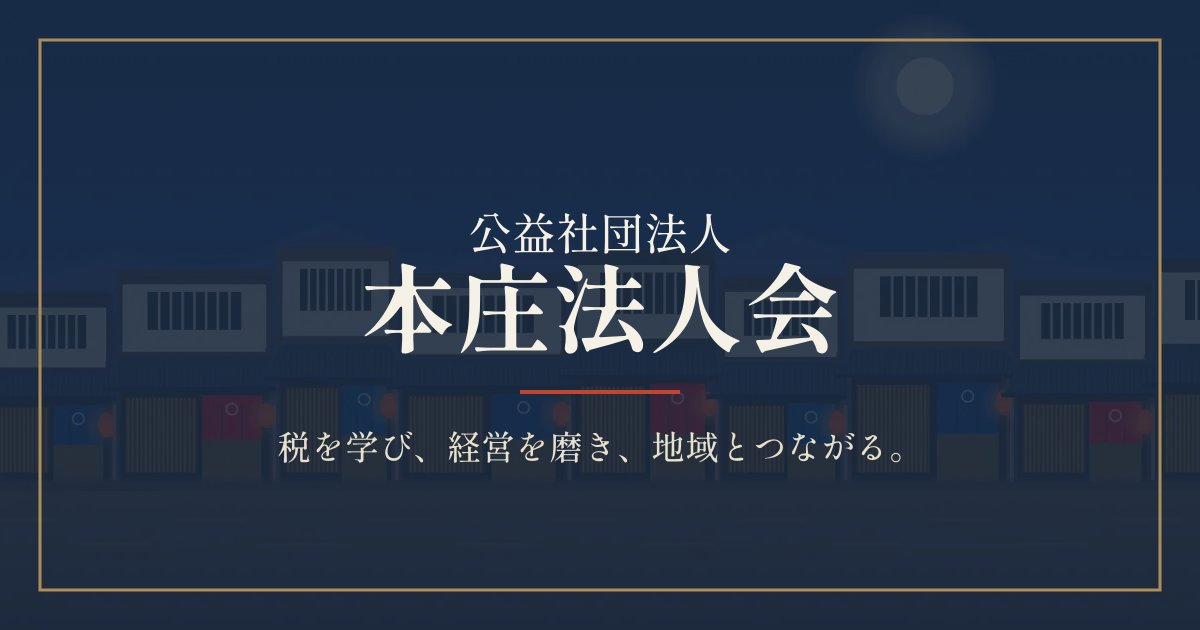
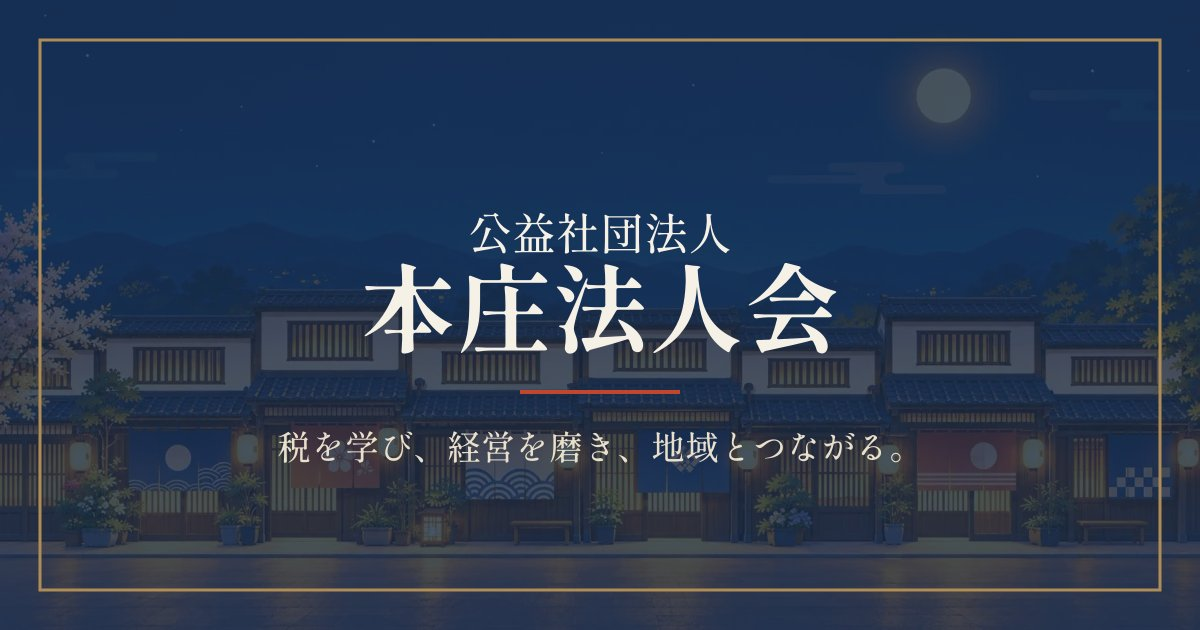
メイン画像を星月夜の町家通りに差し替え、暖簾オープニングを刷新
- 画像の暖簾をモチーフにした4柄（スマホは2柄）が左右に割れて巻き上がる演出に
- 暖簾が上がってからヘッダーを表示、縦看板を月にかからない位置へ
- og.jpg を新しいメイン画像から再生成

diff --git a/components/NorenIntro.tsx b/components/NorenIntro.tsx
@@ -1,0 +1,119 @@
+/**
+ * トップのオープニング：メイン画像の町家に掛かる暖簾をモチーフにした4枚の暖簾。
+ * 1枚ごとに中央の切れ目から左右に割れて揺れ、上へ巻き上がる。
+ * prefers-reduced-motion の人には表示しない（globals.css）。
+ */
+
+const AI = "#1f3352";
+const SHU = "#c2452d";
+const KINARI = "#f6f1e7";
+
+// 青海波（viewBox 300 幅に敷き詰める）
+function Seigaiha({ y, rows, color, bg }: { y: number; rows: number; color: string; bg: string }) {
+  const r = 30;
+  const arcs = [];
+  for (let row = 0; row < rows; row++) {
+    const cy = y + row * (r * 0.5);
+    const off = row % 2 ? r : 0;
+    for (let cx = -r + off; cx <= 300 + r; cx += r * 2) {
+      arcs.push(
+        <g key={`${row}-${cx}`}>
+          <circle cx={cx} cy={cy + r} r={r} fill={bg} stroke={color} strokeWidth="3" />
+          <circle cx={cx} cy={cy + r} r={r * 0.68} fill="none" stroke={color} strokeWidth="3" />
+          <circle cx={cx} cy={cy + r} r={r * 0.36} fill="none" stroke={color} strokeWidth="3" />
+        </g>,
+      );
+    }
+  }
+  return <g>{arcs}</g>;
+}
+
+function Sakura({ cx, cy, r, color }: { cx: number; cy: number; r: number; color: string }) {
+  const petals = [0, 72, 144, 216, 288].map((deg) => (
+    <path
+      key={deg}
+      transform={`rotate(${deg} ${cx} ${cy})`}
+      d={`M${cx} ${cy} C ${cx - r * 0.55} ${cy - r * 0.35}, ${cx - r * 0.5} ${cy - r * 0.95}, ${cx - r * 0.12} ${cy - r} L ${cx} ${cy - r * 0.82} L ${cx + r * 0.12} ${cy - r} C ${cx + r * 0.5} ${cy - r * 0.95}, ${cx + r * 0.55} ${cy - r * 0.35}, ${cx} ${cy} Z`}
+      fill={color}
+    />
+  ));
+  return (
+    <g>
+      {petals}
+      <circle cx={cx} cy={cy} r={r * 0.14} fill={SHU} />
+    </g>
+  );
+}
+
+// 4枚の柄（viewBox 0 0 300 900）
+const designs = [
+  // 藍・白丸・青海波
+  (
+    <>
+      <rect width="300" height="900" fill={AI} />
+      <circle cx="150" cy="300" r="62" fill={KINARI} />
+      <Seigaiha y={600} rows={12} color={KINARI} bg={AI} />
+    </>
+  ),
+  // 朱・桜
+  (
+    <>
+      <rect width="300" height="900" fill={SHU} />
+      <Sakura cx={150} cy={300} r={78} color={KINARI} />
+      <Sakura cx={226} cy={420} r={30} color={KINARI} />
+    </>
+  ),
+  // 生成り・藍の青海波
+  (
+    <>
+      <rect width="300" height="900" fill={KINARI} />
+      <circle cx="150" cy="300" r="58" fill="none" stroke={AI} strokeWidth="10" />
+      <text x="150" y="322" textAnchor="middle" fontSize="64" fontWeight="700" fill={AI} fontFamily="'Shippori Mincho B1', serif">
+        法
+      </text>
+      <Seigaiha y={560} rows={14} color={AI} bg={KINARI} />
+    </>
+  ),
+  // 藍・菱・市松
+  (
+    <>
+      <rect width="300" height="900" fill={AI} />
+      <g transform="translate(150 300) rotate(45)">
+        <rect x="-50" y="-50" width="100" height="100" fill="none" stroke={KINARI} strokeWidth="10" />
+        <rect x="-26" y="-26" width="22" height="22" fill={KINARI} />
+        <rect x="4" y="-26" width="22" height="22" fill={KINARI} />
+        <rect x="-26" y="4" width="22" height="22" fill={KINARI} />
+        <rect x="4" y="4" width="22" height="22" fill={KINARI} />
+      </g>
+      {Array.from({ length: 8 }, (_, row) =>
+        Array.from({ length: 6 }, (_, col) =>
+          (row + col) % 2 ? null : <rect key={`${row}-${col}`} x={col * 50} y={620 + row * 50} width="50" height="50" fill={KINARI} />,
+        ),
+      )}
+    </>
+  ),
+];
+
+function Half({ design, side }: { design: React.ReactNode; side: "l" | "r" }) {
+  return (
+    <span className={`noren-half noren-${side}`}>
+      <svg viewBox={side === "l" ? "0 0 150 900" : "150 0 150 900"} preserveAspectRatio={side === "l" ? "xMaxYMin slice" : "xMinYMin slice"} aria-hidden="true">
+        {design}
+      </svg>
+    </span>
+  );
+}
+
+export default function NorenIntro() {
+  return (
+    <div className="noren-intro" aria-hidden="true">
+      <span className="noren-rod" />
+      {designs.map((d, i) => (
+        <span className="noren" key={i} style={{ "--i": i } as React.CSSProperties}>
+          <Half design={d} side="l" />
+          <Half design={d} side="r" />
+        </span>
+      ))}
+    </div>
+  );
+}

diff --git a/app/globals.css b/app/globals.css
@@ -264,25 +264,34 @@ main { display: block; }
   100% { transform: none; opacity: 1; }
 }
 
-/* 暖簾オープニング */
-.noren-intro { position: absolute; inset: 0; z-index: 5; display: flex; pointer-events: none; }
-.noren-intro span {
-  flex: 1; height: 100%; background: var(--ai); position: relative;
-  border-right: 2px solid var(--ai-deep);
-  animation: noren-up 1.1s cubic-bezier(.7,0,.2,1) both;
+/* 暖簾オープニング（メイン画像の暖簾がモチーフ） */
+.noren-intro { position: absolute; inset: 0; z-index: 5; display: flex; pointer-events: none; overflow: hidden; }
+.noren-rod {
+  position: absolute; left: 0; right: 0; top: 0; height: 14px; z-index: 2;
+  background: linear-gradient(#5a3e26, #2e1f12); box-shadow: 0 3px 8px rgba(0,0,0,.4);
+  animation: rod-up 0.6s ease-in calc(0.55s + 3 * 0.12s + 0.9s) both;
 }
-.noren-intro span::after {
-  content: ""; position: absolute; left: 50%; top: 40%; width: 64px; height: 64px; margin-left: -32px;
-  border: 3px solid rgba(246, 241, 231, 0.9); border-radius: 50%;
+.noren { flex: 1; display: flex; height: 100%; gap: 3px; padding: 0 2px; }
+.noren-half {
+  flex: 1; height: 100%; overflow: hidden; display: block; transform-origin: top center;
+  box-shadow: inset 0 -40px 60px -30px rgba(0,0,0,.35);
 }
-.noren-intro span:nth-child(1) { animation-delay: 0.25s; }
-.noren-intro span:nth-child(2) { animation-delay: 0.35s; }
-.noren-intro span:nth-child(3) { animation-delay: 0.45s; }
-.noren-intro span:nth-child(4) { animation-delay: 0.55s; }
-@keyframes noren-up {
-  0% { transform: translateY(0); }
-  100% { transform: translateY(-105%); }
+.noren-half svg { display: block; width: 100%; height: 100%; }
+.noren-l { animation: noren-l 1.5s cubic-bezier(.55,0,.25,1) calc(0.55s + var(--i) * 0.12s) both; }
+.noren-r { animation: noren-r 1.5s cubic-bezier(.55,0,.25,1) calc(0.55s + var(--i) * 0.12s) both; }
+@keyframes noren-l {
+  0% { transform: none; }
+  28% { transform: rotate(5deg) translateX(-6%); }
+  45% { transform: rotate(3deg) translateX(-8%) translateY(0); }
+  100% { transform: rotate(1deg) translateX(-8%) translateY(-108%); }
 }
+@keyframes noren-r {
+  0% { transform: none; }
+  28% { transform: rotate(-5deg) translateX(6%); }
+  45% { transform: rotate(-3deg) translateX(8%) translateY(0); }
+  100% { transform: rotate(-1deg) translateX(8%) translateY(-108%); }
+}
+@keyframes rod-up { to { transform: translateY(-120%); } }
 .hero-scroll {
   position: absolute; left: 50%; bottom: 24px; transform: translateX(-50%);
   font-size: 11px; letter-spacing: 0.3em; color: rgba(255, 255, 255, 0.75); display: flex; flex-direction: column; align-items: center; gap: 8px;
@@ -297,7 +306,6 @@ main { display: block; }
   .kanban span:nth-child(2) { margin-top: 24px; }
   .hero-inner { padding-bottom: 140px; }
   .hero::before { background: linear-gradient(180deg, rgba(20,34,58,.75) 0%, rgba(20,34,58,.55) 55%, rgba(20,34,58,.8) 100%); }
-  .noren-intro span::after { width: 40px; height: 40px; margin-left: -20px; }
 }
 
 @media (prefers-reduced-motion: reduce) {
@@ -703,4 +711,19 @@ main { display: block; }
   .top-news-head h2 { margin: 0; }
   .top-news-head .eyebrow { width: 100%; }
   .top-news-more { margin-left: auto; }
+}
+
+/* オープニング中はヘッダーを隠し、暖簾が上がってから表示 */
+@media (prefers-reduced-motion: no-preference) {
+  body:has(.noren-intro) .header { animation: fadeup 0.7s ease 1.7s both; }
+}
+/* スマホは暖簾2枚（桜・法）にして柄が切れないように */
+@media (max-width: 600px) {
+  .noren:nth-child(2), .noren:nth-child(5) { display: none; }
+  .noren:nth-child(3) .noren-half { animation-delay: 0.55s; }
+  .noren:nth-child(4) .noren-half { animation-delay: 0.7s; }
+}
+/* 縦看板は月を隠さないよう右端へ */
+@media (min-width: 701px) {
+  .kanban { right: clamp(16px, 2.2vw, 40px); }
 }

diff --git a/app/page.tsx b/app/page.tsx
@@ -2,6 +2,7 @@ import Link from "next/link";
 import Banners from "@/components/Banners";
 import JoinCta from "@/components/JoinCta";
 import NewsList from "@/components/NewsList";
+import NorenIntro from "@/components/NorenIntro";
 import Reveal from "@/components/Reveal";
 import SideInfo from "@/components/SideInfo";
 import { about, activityCards, awards, hero, mall, merits, site, stats, steps } from "@/lib/content";
@@ -12,14 +13,9 @@ export default function Home() {
     <>
       {/* 1. HERO */}
       <section className="hero" aria-labelledby="hero-title">
-        <div className="noren-intro" aria-hidden="true">
-          <span />
-          <span />
-          <span />
-          <span />
-        </div>
+        <NorenIntro />
         <div className="hero-bg" aria-hidden="true">
-          <img src="/images/hero.webp" alt="" width={1920} height={1080} fetchPriority="high" />
+          <img src="/images/hero.webp" alt="" width={1672} height={941} fetchPriority="high" />
         </div>
         <div className="kanban" aria-hidden="true">
           <span>中山道</span>

diff --git a/README.md b/README.md
@@ -51,8 +51,8 @@ Vercel で Import → Framework は Next.js 自動判定、環境変数は不要
 
 ## トップページの流れ
 
-1. **HERO**：宿場町（`public/images/hero.webp`）＋アニメーション
-   - 藍色の暖簾が4枚、上に巻き上がって開くオープニング
+1. **HERO**：星月夜の町家通り（`public/images/hero.webp`）＋アニメーション
+   - メイン画像の暖簾をモチーフにした4枚（藍・白丸・青海波／朱・桜／生成り・法・青海波／藍・菱・市松）が、中央から左右に割れて揺れ、上へ巻き上がるオープニング（`components/NorenIntro.tsx`）。スマホは2枚。暖簾が上がってからヘッダーを表示
    - 画像がゆっくり寄りから引いていく（Ken Burns）＋彩度が戻る
    - キャッチ3行が下からせり上がる → 本文 → ボタンの順に表示
    - 右に「中山道」「本庄宿」の縦看板が落ちてくる
@@ -102,7 +102,7 @@ scripts/make-images.mjs  hero.webp と og.jpg の生成スクリプト
 
 | 現行の掲載内容 | 新サイトでの場所 |
 | --- | --- |
-| トップ：メイン画像 | 宿場町のイラストに差し替え（※実写写真に差し替え予定） |
+| トップ：メイン画像 | 星月夜の町家通りのイラストに差し替え |
 | トップ：お知らせ・会員募集中の文・地図・バナー16件 | トップ（お知らせ・法人会とは・事務局・国税関連情報） |
 | 全ページ共通：滝川鯉昇爆笑会（美里支部）写真・ほうじんナウ91〜105号 | 各ページ下部の共通ブロック（`components/SideInfo.tsx`） |
 | 法人会とは：本文・支部所在地表・会員加入状況（5年分） | `/about` |
@@ -121,7 +121,6 @@ scripts/make-images.mjs  hero.webp と og.jpg の生成スクリプト
 
 ## 公開前の TODO
 
-- [ ] **トップのメイン画像**：今の `hero.webp` は生成したイラスト。本庄宿の町並みの実写写真をもらったら同じファイル名で差し替える（横1920px以上推奨）
 - [ ] **メニューバナーの飛び先確認**：`lib/content.ts` の `menuBanners` で `todo: true` の7件は仮の飛び先
   - 貸倒保証制度・がんドック検診 → 旧リンクが切れているため今は `/contact`。正しい案内ページを事務局に確認
   - 関東信越法人会連合会 → 公式URLが見つからず、全法連のリンク集にしている
